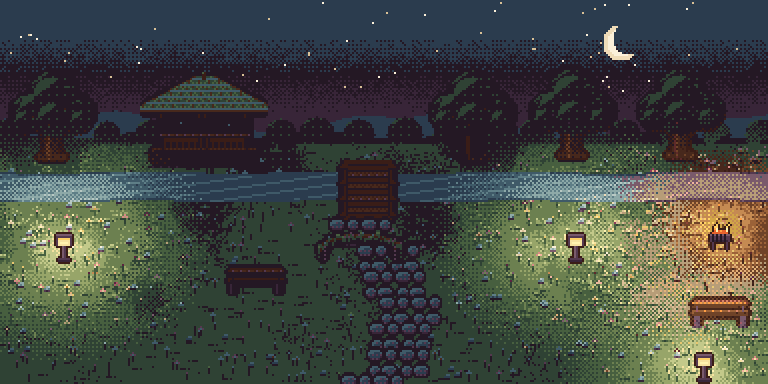
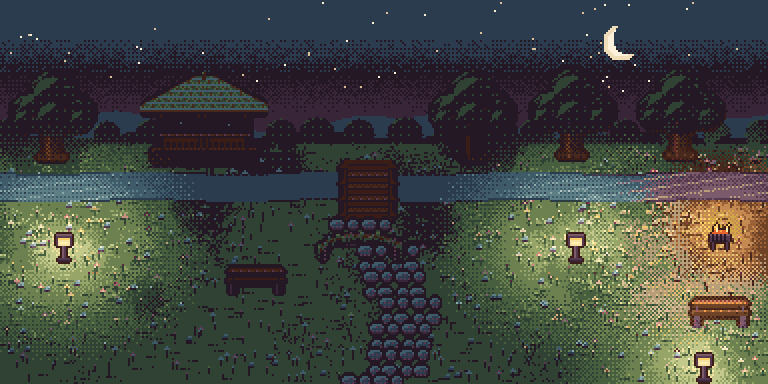
B13 szlify: ikona w calosci, zywoplot, rzadsza polana ogrodu, ciemniejszy strumien
Claude-Session: https://claude.ai/code/session_0135h6bTXzjAgeLjpLoaFjGV

Changed region(s): [[0.5312, 0.4375, 1.0, 0.5312], [0.0, 0.4375, 0.4375, 0.5312]]

diff --git a/tools/art/world/meadow.py b/tools/art/world/meadow.py
@@ -6,7 +6,7 @@ sys.path.insert(0, str(Path(__file__).resolve().parents[1]))
 import handart as H
 
 
-def meadow(im, r, W, HT, HORIZON):
+def meadow(im, r, W, HT, HORIZON, flowers=1.0):
     """Polana: plamy tonow trawy (niska czestotliwosc), kepy z dlugimi zdzblami, kwiatki, koniczyna, paprocie i kamyki."""
     k = W * (HT - HORIZON) / (256 * 90.0)                            # gestosc roslin proporcjonalna do powierzchni
     for y in range(HORIZON + 2, HT):
@@ -29,7 +29,7 @@ def meadow(im, r, W, HT, HORIZON):
         for k, (dx, dy) in enumerate(((0, 0), (-3, 1), (3, 1), (-2, -2), (2, -2), (0, -3), (-4, 3), (4, 3))):
             H.put(im, x + dx, y + dy, "moss.0" if k < 1 else "moss.4"); H.put(im, x + dx // 2, y + dy // 2, "moss.3")
     pal = ("rose.1", "rose.2", "hay.3", "linen.3", "linen.2", "berry.0", "hay.2")
-    for _ in range(int(95 * k)):                                            # pojedyncze kwiatki na lodygach
+    for _ in range(int(95 * k * flowers)):                                            # pojedyncze kwiatki na lodygach
         x, y = r.randint(2, W - 3), r.randint(HORIZON + 8, HT - 4)
         c = r.choice(pal); big = r.random() < .3
         H.vline(im, x, y, y + 2, "moss.0")

diff --git a/tools/art/world/garden_a.py b/tools/art/world/garden_a.py
@@ -52,11 +52,19 @@ def bush_berry():
 
 
 def hedge():
+    """Strzyzony zywoplot: prostokatna bryla z falistym wierzchem i jasnymi listkami; kontur zamyka boki,
+    wiec dwa kafle obok siebie czytaja sie jako dwa segmenty."""
     r = random.Random(4)
     im = H.canvas(16, 16)
-    for cx in (3, 8, 13): blob(im, cx, 9, 5, MOSS, r)
-    H.rect(im, 0, 10, 15, 13, "moss.1")
-    for x in range(0, 16, 3): H.put(im, x + r.randint(0, 1), 8 + r.randint(0, 2), "moss.3")
+    for x in range(1, 15):
+        top = 5 + (1 if (x // 3) % 2 else 0)
+        H.vline(im, x, top, 13, "moss.1")
+    for x in range(1, 15):
+        H.put(im, x, 5 + (1 if (x // 3) % 2 else 0), "moss.2")
+    for _ in range(14): H.put(im, r.randint(2, 13), r.randint(7, 11), "moss.2")
+    for _ in range(8): H.put(im, r.randint(2, 13), r.randint(8, 12), "moss.0")
+    for x, y in ((4, 7), (9, 8), (12, 6), (6, 10)): H.put(im, x, y, "moss.3")
+    H.hline(im, 1, 14, 13, "moss.0")
     H.break_checkers(im)
     return H.ground(H.outline(im))
 

diff --git a/tools/art/world/garden_bg.py b/tools/art/world/garden_bg.py
@@ -70,7 +70,7 @@ PLACED = []
 
 
 def world(tod):
-    r = random.Random(21)
+    r = random.Random(22)
     im = H.canvas(W, HT)
     for x in range(W):                                                            # dalekie wzgorza i krzewy
         top = int(HORIZON - 6 - 4 * math.sin(x / 21.0) - 2 * math.sin(x / 8.0 + 1))
@@ -78,7 +78,7 @@ def world(tod):
     for x in range(W):
         top = int(HORIZON - 1 - 2 * math.sin(x / 12.0 + 2))
         H.vline(im, x, top, HORIZON + 2, "moss.0")
-    meadow(im, r, W, HT, HORIZON)                                                 # trawa
+    meadow(im, r, W, HT, HORIZON, flowers=.5)                                             # trawa
     H.break_checkers(im)
     for x in range(0, W, 8):                                                      # plot
         H.rrect(im, x + 1, HORIZON - 2, x + 4, HORIZON + 12, 1, ("wood.0", "wood.1", "wood.2", "wood.2"))

diff --git a/tools/art/world/app_icon.py b/tools/art/world/app_icon.py
@@ -10,12 +10,12 @@ D = H.ROOT / "assets/app-icon"
 
 
 def pig32():
-    im = Image.open(D / "icon_256.png").convert("RGBA").resize((32, 32), Image.NEAREST)
+    """Cala swinka z logo (bez cienia) x2: miesci sie w ramce 30x30, nic nie jest ucinane."""
+    lg = Image.open(D / "logo_256.png").convert("RGBA").resize((32, 32), Image.NEAREST)
+    bb = lg.getbbox(); h = bb[3] - bb[1] - 2
+    crop = lg.crop((bb[0], bb[1], bb[2], bb[1] + h)).resize(((bb[2] - bb[0]) * 2, h * 2), Image.NEAREST)
     out = H.canvas(32, 32)
-    for y in range(32):
-        for x in range(32):
-            p = im.getpixel((x, y))
-            if p[3] > 0: out.putpixel((x, y), (*icons_a.snap(p), 255))
+    out.alpha_composite(crop, ((32 - crop.width) // 2, 31 - crop.height - 1))
     return out
 
 

diff --git a/tools/art/world/park_bg.py b/tools/art/world/park_bg.py
@@ -75,7 +75,7 @@ def world(extra=()):
             off = int(2 * math.sin(x / 15.0))
             if STREAM[0] + off <= y <= STREAM[1] + off:
                 edge = y in (STREAM[0] + off, STREAM[1] + off)
-                H.put(im, x, y, "dusk.1" if edge else ("dusk.3" if (x // 7 + y) % 5 else "dusk.4"))
+                H.put(im, x, y, "dusk.0" if edge else ("dusk.2" if (x // 7 + y) % 5 else "dusk.3"))
     PLACED.clear()
     def put(name, x, y, rel=None):
         i = _img(rel or f"park/{name}.png"); PLACED.append((name, x, y, i)); im.alpha_composite(i, (x, y))

diff --git a/docs/VISUAL_LOG.md b/docs/VISUAL_LOG.md
@@ -171,3 +171,10 @@ sofa_cosy (bochenek, brick, 4 warianty), fireplace (wył + 4 klatki wł), lamp_m
 - `tools/art/world/meadow.py`: polana wspólna dla farmy, ogrodu i parku (gęstość proporcjonalna do powierzchni); `garden_bg.py` i `park_bg.py` używają jej zamiast gładkiej trawy.
 - Lint 161 plików: 0. Zgodność: 55/55 id `world_items.json` w atlasie (87 przedmiotów, 32 nowe), ikony 173, kafle 53, tła 12. `assets/` 52 MB (limit 60). `_x2` świata (102 pliki) zostają do G14. `node tools/qa/*` nie działa w środowisku (brak przeglądarki Playwright).
 - Album końcowy: `docs/album/przebudowa/b13-3_album_koncowy.png`. Przekazanie dla kodu: `docs/PLAN.md` (G11-G14).
+
+## B13 Szlify końcowe (ikona, żywopłot, ogród, strumień)
+- Ikona aplikacji: cała świnka z logo x2 w ramce 30x30, nic nie jest ucięte (`app_icon.py` czyta teraz `logo_256.png`, więc jest powtarzalny).
+- `garden:hedge`: prostokątna bryła z falistym wierzchem i konturem po bokach; dwa kafle obok siebie czytają się jako dwa segmenty.
+- Polana ogrodu: o połowę mniej kwiatów (`meadow(..., flowers=.5)`), seed ogrodu 22 (R6=0).
+- Strumień w parku: ciemniejsze tony wody (`dusk.0/2/3`), nie blednie wieczorem.
+- Lint: 0 naruszeń.
